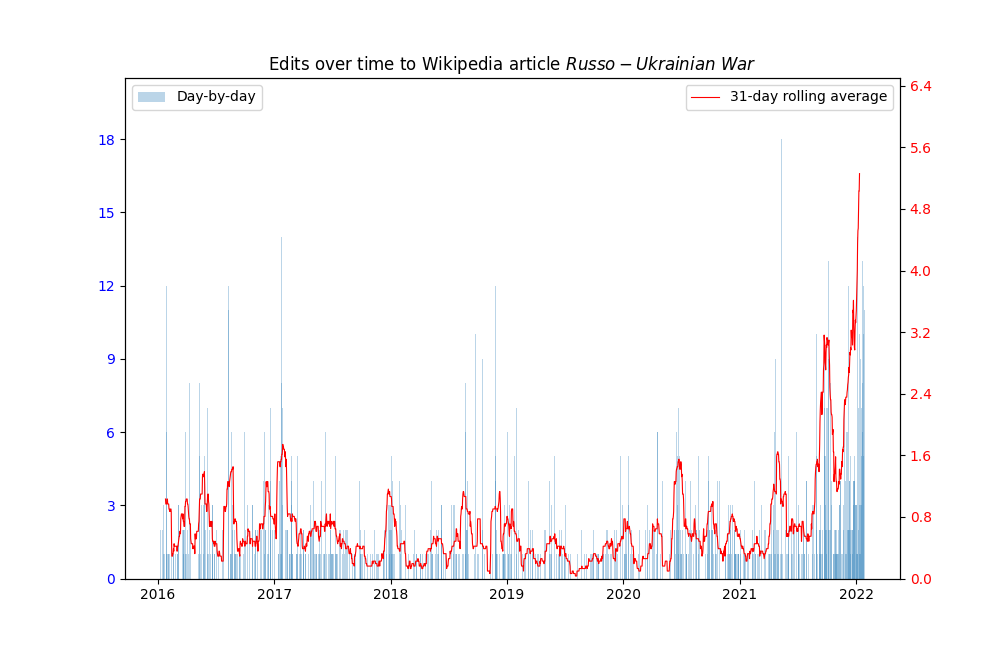
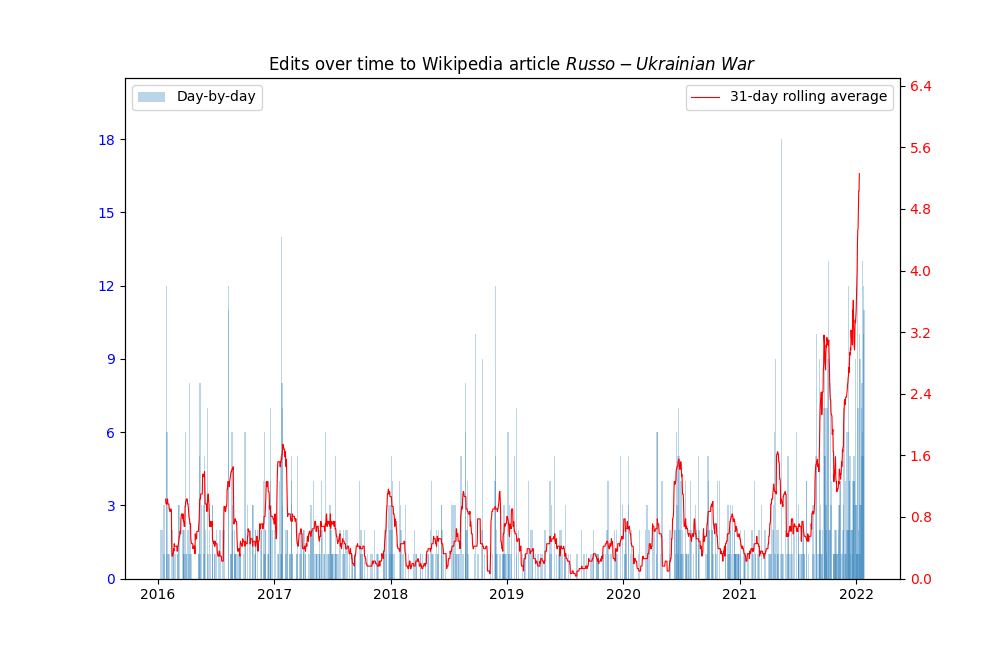
increased width

diff --git a/main.py b/main.py
@@ -52,7 +52,7 @@ fig = plt.figure(figsize=(10.00, 6.50))
 ax1 = fig.add_subplot(111)
 ax1.set_ylim([0.0, 20.5])
 ax1.yaxis.set_major_locator(plt.MaxNLocator(integer=True))
-ax1.bar(matplotlib.dates.date2num(dates), values, width=3.0, alpha=0.3, label='Day-by-day')
+ax1.bar(matplotlib.dates.date2num(dates), values, width=4.0, alpha=0.3, label='Day-by-day')
 for tl in ax1.get_yticklabels():
     tl.set_color('b')
 
